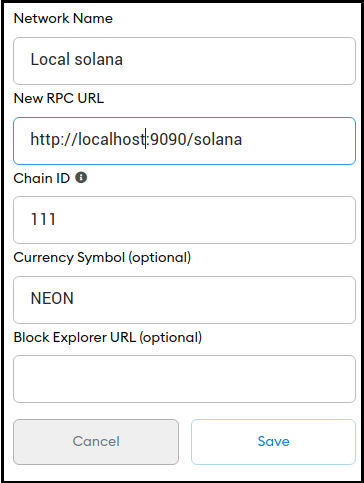
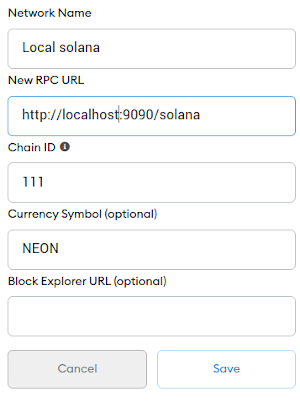
fix ready

Changed region(s): [[0.0, 0.0, 1.0, 1.0]]

diff --git a/src/css/custom.css b/src/css/custom.css
@@ -12,7 +12,6 @@ body {
   font-family: 'Roboto', 'Courier New', Courier, monospace;
 }
 :root {
-  --ifm-color-primary: #25c2a0;
   --ifm-color-primary-dark: rgb(33, 175, 144);
   --ifm-color-primary-darker: rgb(31, 165, 136);
   --ifm-color-primary-darkest: rgb(26, 136, 112);
@@ -21,6 +20,7 @@ body {
   --ifm-color-primary-lightest: rgb(146, 224, 208);
   --ifm-code-font-size: 95%;
   --ifm-link-color: #CE3A8B;
+  --ifm-neon-pink: #CE3A8B;
   --ifm-color-primary: #4355F9;
   --ifm-link-hover-color: #4355F9;
   --ifm-navbar-link-hover-color: #4355F9;
@@ -41,6 +41,11 @@ a:hover {
   display: block;
   margin: 0 calc(-1 * var(--ifm-pre-padding));
   padding: 0 var(--ifm-pre-padding);
+}
+
+.neon-img-container img {
+    width: 300px;
+    border: 2px solid var(--ifm-neon-pink);
 }
 
 html[data-theme='dark'] .docusaurus-highlight-code-line {

diff --git a/docs/solana_cluster/cluster_installation.md b/docs/solana_cluster/cluster_installation.md
@@ -30,17 +30,17 @@ The Neon EVM endpoint enables [Metamask](https://metamask.io/) to work with Sola
 
 Setup the "Metamask" Chromium extension to connect to the proxy via Custom RPC at `http://localhost:9090/solana`. The following image describes how to set up the local Solana connection:  
 
-<div style={{textAlign: 'center'}}>  
+<div class='neon-img-container' style={{textAlign: 'center'}}>  
 
-![](./img/cluster-install-1.png) 
+![](./img/cluster-install-1.png)
 
 </div>
 
 Open Remix (also in Chromium) and select `Injected Web3` environment. You can deploy EVM-wrapped smart contracts on Solana and invoke instructions:  
 
-<div style={{textAlign: 'center'}}>  
+<div class='neon-img-container' style={{textAlign: 'center'}}>  
 
-![](./img/cluster-install-2.png) 
+![](./img/cluster-install-2.png)
 
 </div>
 
@@ -48,7 +48,7 @@ Open Remix (also in Chromium) and select `Injected Web3` environment. You can de
 
 ## Truffle suite with Neon EVM
 
-Truffle is a popular platform to deploy and test solidity programs. This section is to check Neon EVM and truffle suite compatibility. 
+Truffle is a popular platform to deploy and test solidity programs. This section is to check Neon EVM and truffle suite compatibility.
 
 In the new terminal, create a truffle project and deploy contracts into EVM:
 
@@ -157,4 +157,3 @@ $ truffle migrate --network solana --reset
 ---
 
 *Welcome to deploy your solidity programs on [Solana](https://solana.com) driven [Neon EVM](https://neon-labs.org/)*.
-
